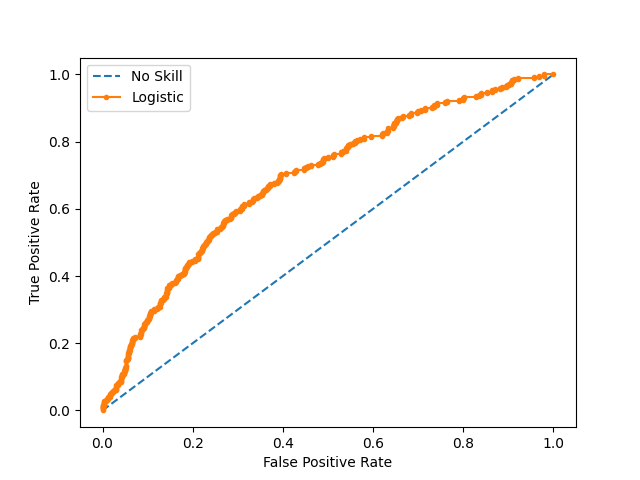
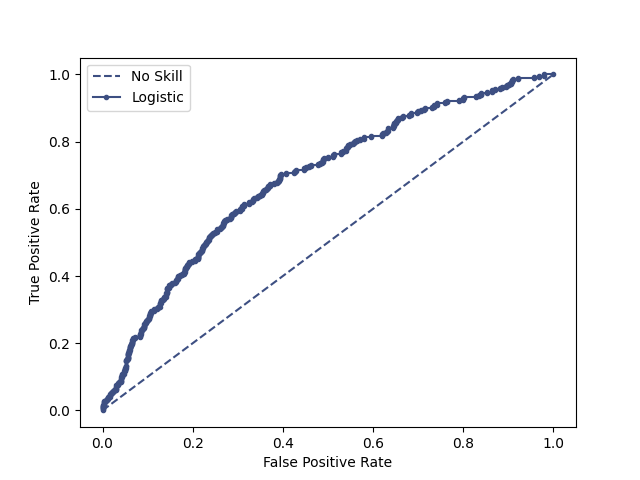
Upadting requirements.txt, readme files and adding self assigned script

diff --git a/A5-Supervised-Learning/src/readmission_prediction.py b/A5-Supervised-Learning/src/readmission_prediction.py
@@ -51,33 +51,33 @@ class ReadmissionPrediction:
         # Loading training data
         if train_data is None:
 
-            self.train_data = self.load_data(file_name = 'tfidf_train_notes.csv') 
+            self.train_data = self.load_data(file_name='tfidf_train_notes.csv') 
 
         else:
 
-            self.train_data = self.load_data(file_name = train_data) 
+            self.train_data = self.load_data(file_name=train_data) 
 
         # Loading test data 
         if test_data is None:
 
-            self.test_data = self.load_data(file_name = 'tfidf_test_notes.csv')
+            self.test_data = self.load_data(file_name='tfidf_test_notes.csv')
 
         else:
 
-            self.test_data = self.load_data(file_name = test_data) 
+            self.test_data = self.load_data(file_name=test_data) 
 
         # Load training labels
         if train_labels is None:
 
-            self.train_labels = self.load_data(file_name = 'train_labels.csv')
+            self.train_labels = self.load_data(file_name='train_labels.csv')
             
         else:
-            self.train_labels = self.load_data(file_name = train_labels)
+            self.train_labels = self.load_data(file_name=train_labels)
 
         # Load training labels
         if test_labels is None:
 
-            self.test_labels = self.load_data(file_name = 'test_labels.csv')
+            self.test_labels = self.load_data(file_name='test_labels.csv')
 
         else:
 
@@ -115,9 +115,6 @@ class ReadmissionPrediction:
 
         # Evaluating the model
         test_preds = self.lr.predict(self.test_data)
-
-        print(type(test_preds))
-        print(type(self.test_labels))
 
         # Getting metrics 
         cm = metrics.classification_report(self.test_labels, test_preds)
@@ -195,9 +192,9 @@ class ReadmissionPrediction:
         lr_fpr, lr_tpr, _ = metrics.roc_curve(self.test_labels, lr_probs)
         
         # Plot the roc curve for the model
-        plt.plot(ns_fpr, ns_tpr, linestyle='--', label='No Skill')
+        plt.plot(ns_fpr, ns_tpr, linestyle='--', label='No Skill', color='#3D4F82')
 
-        plt.plot(lr_fpr, lr_tpr, marker='.', label='Logistic')
+        plt.plot(lr_fpr, lr_tpr, marker='.', label='Logistic', color='#3D4F82')
 
         # Axis labels
         plt.xlabel('False Positive Rate')
@@ -288,7 +285,8 @@ class ReadmissionPrediction:
         
         plt.subplots_adjust(wspace=0.8)
 
-        plt.savefig(Path.cwd() / 'viz' / 'most_important.png', pad_inches=2) 
+        # Save figure
+        plt.savefig(Path.cwd() / 'viz' / 'most_important.png', bbox_inches='tight', pad_inches=2) 
 
 
 # Executing main function when script is run
@@ -305,7 +303,6 @@ if __name__ == '__main__':
                         "[DEFAULT]     tfidf_train_notes.csv \n"
                         "[EXAMPLE]     -tr tfidf_train_notes.csv \n",
                         required=False)
-
 
     parser.add_argument('-te', 
                         metavar="--test_data",
@@ -327,8 +324,6 @@ if __name__ == '__main__':
                         "[EXAMPLE]     -tr train_labels.csv \n",
                         required=False)
 
-
-                        
     parser.add_argument('--tel', 
                         metavar="--test_labels",
                         type=str,

diff --git a/SA-LDA-Feature-Extraction/src/lda_features_classification.py b/SA-LDA-Feature-Extraction/src/lda_features_classification.py
@@ -1,0 +1,85 @@
+#-----# Importing packages #-----#
+
+# System / setup 
+import argparse
+
+# Data analysis packages
+from pathlib import Path
+import pandas as pd
+
+#-----# Project desctiption #-----#
+
+# Extracting Latent Feature Representations using LDA for use as Inputs in Supervised Text Classification
+'''
+'''
+
+#-----# Defining main function #-----#
+
+# Defining main function
+def main(args):
+
+    # Initialising arguments that can be specified in command line
+    pos_data = args.pd
+
+    neg_data = args.nd
+
+    # Initialising classs
+    LDAFeats2Classification(pos_data=pos_data, neg_data=neg_data)
+
+#-----# Defining class #-----#
+
+class LDAFeats2Classification:
+
+    def __init__(self):
+        #-----# Preprocessing data #-----#
+        # Load data
+
+        # Get labels
+
+        # Split data
+
+        #-----# LDA Feature Extraction #-----#
+
+        # Train LDA model
+
+        #-----# Train classifier #-----#
+
+        # Train logistic regression
+
+        #-----# Evaluation #-----#
+
+        # Test data through LDA model
+
+        # Perhaps visualisations
+
+    
+    #-----# Utility functions #-----#
+
+# Executing main function when script is run from command line
+if __name__ == '__main__':
+
+    #Create an argument parser from argparse
+    parser = argparse.ArgumentParser(description = "[INFO] Pre-processing discharge summaries",
+                                formatter_class = argparse.RawTextHelpFormatter)
+
+    parser.add_argument('-pd', 
+                        metavar="--positive_data",
+                        type=str,
+                        help=
+                        "[DESCRIPTION] The path for the file containing data for positive instances (true news stories). \n"
+                        "[TYPE]        str \n"
+                        "[DEFAULT]     True.csv \n"
+                        "[EXAMPLE]     -pd True.csv \n",
+                        required=False)
+
+    parser.add_argument('-nd', 
+                        metavar="--negative_data",
+                        type=str,
+                        help=
+                        "[DESCRIPTION] The path for the file containing data for negative instances (false news stories) \n"
+                        "[TYPE]        str \n"
+                        "[DEFAULT]     False.csv \n"
+                        "[EXAMPLE]     -nd FALSE.csv \n",
+                        required=False)
+    
+    main(parser.parse_args())

diff --git a/A5-Supervised-Learning/src/data_preprocessing.py b/A5-Supervised-Learning/src/data_preprocessing.py
@@ -1,3 +1,5 @@
+#-----# Importing packages #-----#
+
 # General packages
 import numpy as np
 import pandas as pd 
@@ -11,8 +13,11 @@ import nltk
 from nltk import word_tokenize
 nltk.download('punkt')
 
-# TF-IDF vectorisation
+# TF-IDF vectoriser
 from sklearn.feature_extraction.text import TfidfVectorizer
+
+
+#-----# Project desctiption #-----#
 
 '''
  Preprocessing and preperation of data:
@@ -31,9 +36,11 @@ The purpose of this script is to prepare and preproces the raw textual data and 
 8. Output datasets and labels as CSV-files
 '''
 
+#-----# Defining main function #-----#
+
 # Defining main function
 def main(args):
-
+    
     notes_file = args.nf 
 
     admissions_file = args.af
@@ -48,7 +55,8 @@ def main(args):
                       max_features=max_features,
                       ngram_range=ngram_range)
 
-# Defining class 'NotePreprocessing'
+#-----# Defining class #-----#
+
 class NotePreprocessing:
     def __init__(self, notes_file, admissions_file, max_features, ngram_range):
         
